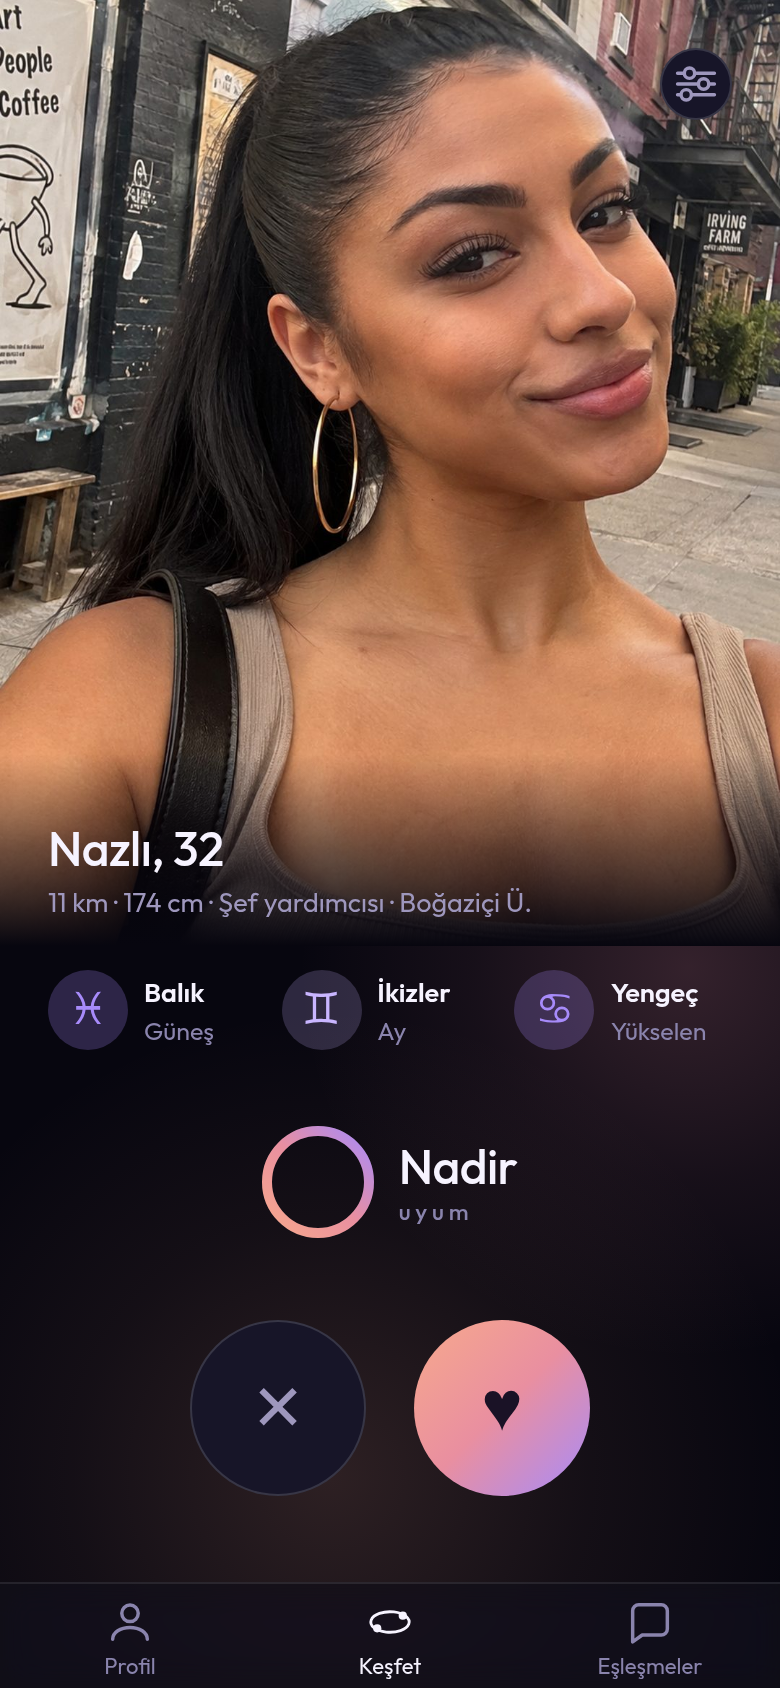
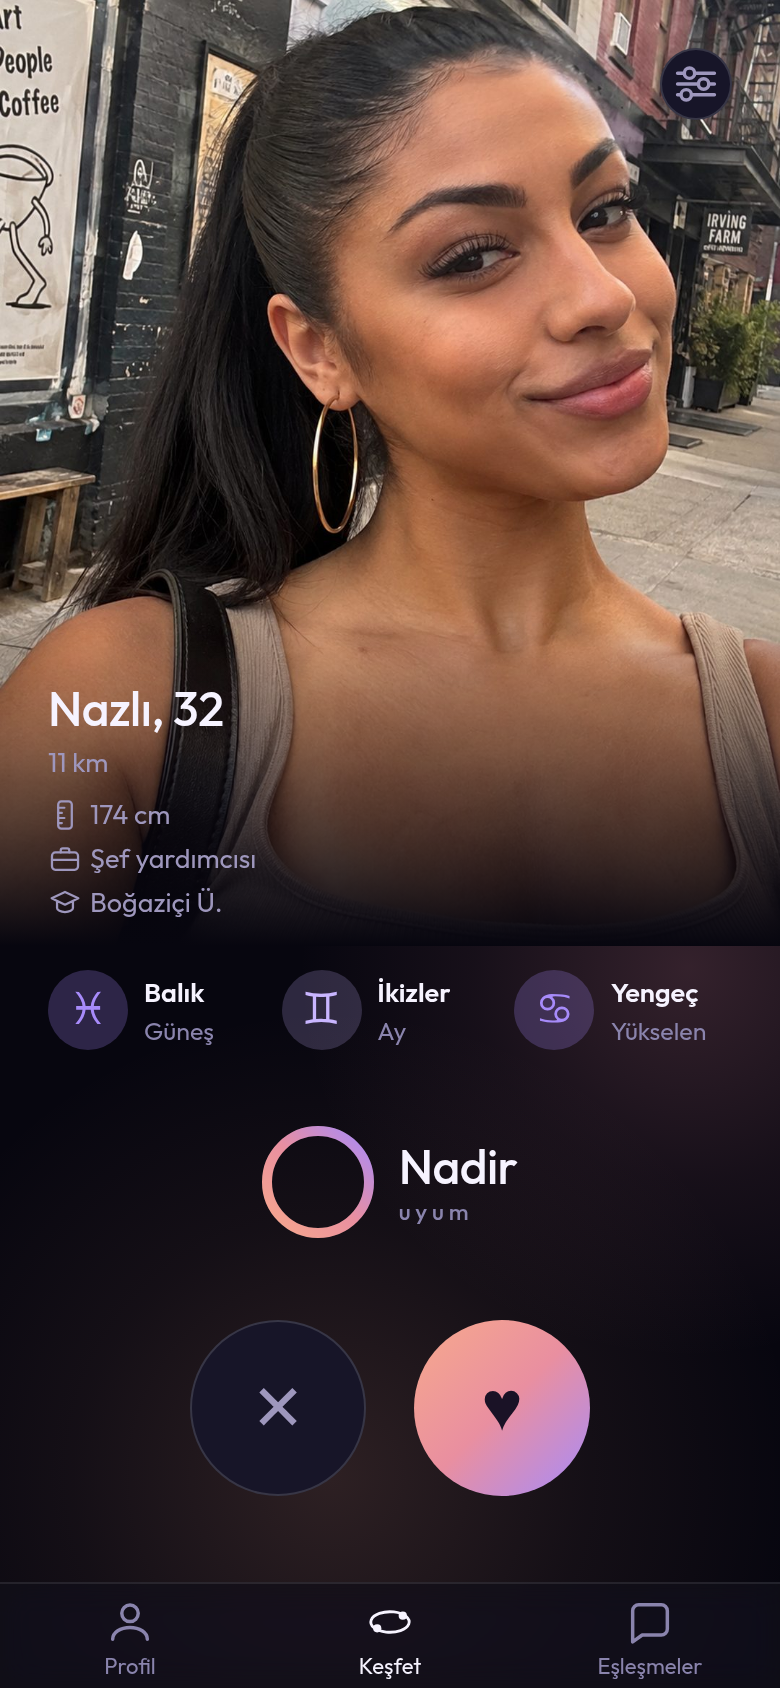
Discover: the card draws the same fact rows as the profile
Owner, after seeing the glyph rows on his own profile: "kesfette de
alanlar profil goruntusundeki gibi olsun". The card's one-line
"11 km · 184 cm · Şef yardımcısı · Boğaziçi Ü." is now the distance on
its own line with the three glyph rows under it, from the same component
the profile sheet uses.

The rows moved out of `ProfileView` into `components/FactRows.tsx` for
it: two surfaces that are supposed to be the same card cannot each keep
their own copy of the block.

The card's height does not change, which is what made this a one-liner
in the first place — its scrim is painted over the photo rather than laid
out above it, so extra lines climb the picture instead of pushing the
chips and the buttons down. `FactRows` takes the deck's
`maxFontSizeMultiplier` so Dynamic Type cannot climb past the name.

`cardLine` becomes `cardSpoken`: its only caller left is the card
button's `accessibilityLabel`, so it speaks the school's full name
rather than the abbreviation, as the profile rows already do.

Claude-Session: https://claude.ai/code/session_01BAn6Ea89nncBaFsjFLHnoH

Changed region(s): [[0.0, 0.3697, 1.0, 0.5545]]

diff --git a/apps/mobile/components/ProfileView.tsx b/apps/mobile/components/ProfileView.tsx
@@ -11,7 +11,7 @@ import {
   View,
 } from 'react-native';
 import { BigThreeRow } from '@/components/BigThreeRow';
-import { DetailIcon, type DetailIconName } from '@/components/DetailIcon';
+import { FactRows, factRows } from '@/components/FactRows';
 import {
   ChartDetail,
   PROFILE_PRIMARY_COUNT,
@@ -40,7 +40,6 @@ import {
   MAX_INTERESTS,
   heightStop,
   searchInterests,
-  shortSchool,
   stopHeight,
   toggleInterest,
   type ProfileDetails,
@@ -209,98 +208,6 @@ export function ProfileView({
         <ChartDetail reading={reading} chart={chart} own={own} />
       </Popup>
     </>
-  );
-}
-
-/**
- * The facts that sit under the name, each with the glyph that says which
- * fact it is (owner, 2026-09-23: "su sekilde ismin hemen altinda olsun.
- * taglerle degil sembollerle gosterelim"). Unanswered ones are simply
- * absent: with no column to hold open there is nothing for a dash to
- * stand in for, which is the trade he took when he picked this shape over
- * the labelled columns it replaces.
- *
- * The `label` never reaches the screen. It is what a screen reader hears
- * in the glyph's place, because a picture of a mortarboard says nothing
- * to it and "Boğaziçi Ü." alone does not say it is a school. `spoken` is
- * the rest of that label: the value, except for the school, where it is
- * the name as it was typed.
- */
-interface FactRow {
-  readonly key: DetailIconName;
-  readonly label: string;
-  readonly value: string;
-  /**
-   * What a screen reader says in place of `value`. They differ for the
-   * school: `shortSchool` exists because a line has a width and
-   * "Üniversitesi" spends most of it, and speech has no width — "Ü." is
-   * read out as a letter and a period.
-   */
-  readonly spoken: string;
-}
-
-function factRows(details: ProfileDetails): readonly FactRow[] {
-  const height =
-    details.height_cm === null
-      ? null
-      : t.profile.heightValue(details.height_cm);
-  const rows: readonly {
-    key: DetailIconName;
-    label: string;
-    value: string | null;
-    spoken: string | null;
-  }[] = [
-    {
-      key: 'height' as const,
-      label: t.profile.height,
-      value: height,
-      spoken: height,
-    },
-    {
-      key: 'occupation' as const,
-      label: t.profile.occupation,
-      value: details.occupation,
-      spoken: details.occupation,
-    },
-    {
-      key: 'university' as const,
-      label: t.profile.universityColumn,
-      // Short here as on the deck (owner, 2026-09-23: "profilde de
-      // kisaltalim"): "Üniversitesi" is most of what a school name spends
-      // a line on while saying nothing about which school it is. The
-      // editor still holds the name as it was typed; this is the drawing,
-      // and `spoken` is the one reader the width argument does not apply
-      // to.
-      value:
-        details.university === null ? null : shortSchool(details.university),
-      spoken: details.university,
-    },
-  ];
-  return rows.filter((row): row is FactRow => row.value !== null);
-}
-
-/** The rows themselves, for a host that has somewhere to put them. */
-function FactRows({ details }: { details: ProfileDetails }) {
-  const rows = factRows(details);
-  if (rows.length === 0) return null;
-  return (
-    <View style={styles.factRows} testID="profile-facts">
-      {rows.map((row) => (
-        <View key={row.key} style={styles.factRow} testID={`fact-${row.key}`}>
-          <DetailIcon name={row.key} />
-          {/* Never onto a second line (owner, 2026-09-23: "meslek ve okul
-              asla alt satira tasmasin"). A row has the whole width now, so
-              only a very long occupation reaches the end of one. */}
-          <Text
-            style={styles.factRowText}
-            numberOfLines={1}
-            accessibilityLabel={`${row.label}: ${row.spoken}`}
-          >
-            {row.value}
-          </Text>
-        </View>
-      ))}
-    </View>
   );
 }
 
@@ -891,15 +798,6 @@ const styles = StyleSheet.create({
   addText: { ...type.caption, color: color.textMuted, textAlign: 'center' },
   dim: { opacity: 0.6 },
   hint: { ...type.caption, color: color.textFaint },
-  // The answered facts under the name, one per line, each behind its
-  // glyph (owner, 2026-09-23: "ismin hemen altinda olsun. taglerle degil
-  // sembollerle gosterelim"). A small gap above the first: they belong to
-  // the name, not to the picture behind them.
-  factRows: { gap: 2, marginTop: space.xs },
-  factRow: { flexDirection: 'row', alignItems: 'center', gap: space.xs },
-  // `flexShrink` so the text, not the row, is what runs out of width; the
-  // glyph keeps its size and the name above keeps its place.
-  factRowText: { ...type.bodySmall, color: color.textMuted, flexShrink: 1 },
   factLabel: { ...type.label, color: color.textFaint },
   factValue: { ...type.body, color: color.text },
   tags: { flexDirection: 'row', flexWrap: 'wrap', gap: space.sm },

diff --git a/apps/mobile/components/FactRows.tsx b/apps/mobile/components/FactRows.tsx
@@ -1,0 +1,124 @@
+import { StyleSheet, Text, View } from 'react-native';
+import { DetailIcon, type DetailIconName } from '@/components/DetailIcon';
+import { shortSchool, type ProfileDetails } from '@/lib/profile-details';
+import { t } from '@/lib/strings';
+import { color, space, type } from '@/theme/tokens';
+
+/**
+ * The facts that sit under a name, each with the glyph that says which
+ * fact it is (owner, 2026-09-23: "su sekilde ismin hemen altinda olsun.
+ * taglerle degil sembollerle gosterelim"). Unanswered ones are simply
+ * absent: with no column to hold open there is nothing for a dash to
+ * stand in for, which is the trade he took when he picked this shape over
+ * the labelled columns it replaced.
+ *
+ * Drawn on the profile sheet and on the deck's card alike (owner,
+ * 2026-09-23: "kesfette de alanlar profil goruntusundeki gibi olsun"),
+ * which is why this is its own file rather than a piece of `ProfileView`:
+ * the two surfaces are supposed to be the same card, and a copy of this
+ * block in each is two things to keep agreeing.
+ *
+ * The `label` never reaches the screen. It is what a screen reader hears
+ * in the glyph's place, because a picture of a mortarboard says nothing
+ * to it and "Boğaziçi Ü." alone does not say it is a school.
+ */
+interface FactRow {
+  readonly key: DetailIconName;
+  readonly label: string;
+  readonly value: string;
+  /**
+   * What a screen reader says in place of `value`. They differ for the
+   * school: `shortSchool` exists because a line has a width and
+   * "Üniversitesi" spends most of it, and speech has no width — "Ü." is
+   * read out as a letter and a period.
+   */
+  readonly spoken: string;
+}
+
+export function factRows(details: ProfileDetails): readonly FactRow[] {
+  const height =
+    details.height_cm === null
+      ? null
+      : t.profile.heightValue(details.height_cm);
+  const rows: readonly {
+    key: DetailIconName;
+    label: string;
+    value: string | null;
+    spoken: string | null;
+  }[] = [
+    {
+      key: 'height' as const,
+      label: t.profile.height,
+      value: height,
+      spoken: height,
+    },
+    {
+      key: 'occupation' as const,
+      label: t.profile.occupation,
+      value: details.occupation,
+      spoken: details.occupation,
+    },
+    {
+      key: 'university' as const,
+      label: t.profile.universityColumn,
+      // Short wherever it is drawn (owner, 2026-09-23: "profilde de
+      // kisaltalim"): "Üniversitesi" is most of what a school name spends
+      // a line on while saying nothing about which school it is. The
+      // editor still holds the name as it was typed; this is the drawing,
+      // and `spoken` is the one reader the width argument does not apply
+      // to.
+      value:
+        details.university === null ? null : shortSchool(details.university),
+      spoken: details.university,
+    },
+  ];
+  return rows.filter((row): row is FactRow => row.value !== null);
+}
+
+export function FactRows({
+  details,
+  maxFontSizeMultiplier,
+}: {
+  details: ProfileDetails;
+  /**
+   * The deck's ceiling on Dynamic Type. That card may not grow — it has
+   * to fit one screen with nothing to scroll into — and these rows are
+   * inside its photo, so text that grew without limit would climb over
+   * the name. The sheets, which scroll, pass nothing and serve every
+   * size.
+   */
+  maxFontSizeMultiplier?: number | undefined;
+}) {
+  const rows = factRows(details);
+  if (rows.length === 0) return null;
+  return (
+    <View style={styles.rows} testID="profile-facts">
+      {rows.map((row) => (
+        <View key={row.key} style={styles.row} testID={`fact-${row.key}`}>
+          <DetailIcon name={row.key} />
+          {/* Never onto a second line (owner, 2026-09-23: "meslek ve okul
+              asla alt satira tasmasin"). A row has the whole width here,
+              so only a very long occupation reaches the end of one. */}
+          <Text
+            style={styles.text}
+            numberOfLines={1}
+            maxFontSizeMultiplier={maxFontSizeMultiplier}
+            accessibilityLabel={`${row.label}: ${row.spoken}`}
+          >
+            {row.value}
+          </Text>
+        </View>
+      ))}
+    </View>
+  );
+}
+
+const styles = StyleSheet.create({
+  // A small gap above the first row: they belong to the name above them,
+  // not to the picture behind them.
+  rows: { gap: 2, marginTop: space.xs },
+  row: { flexDirection: 'row', alignItems: 'center', gap: space.xs },
+  // `flexShrink` so the text, not the row, is what runs out of width; the
+  // glyph keeps its size and the name above keeps its place.
+  text: { ...type.bodySmall, color: color.textMuted, flexShrink: 1 },
+});

diff --git a/apps/mobile/app/(tabs)/(discover)/discover.tsx b/apps/mobile/app/(tabs)/(discover)/discover.tsx
@@ -27,6 +27,7 @@ import { BigThreeRow } from '@/components/BigThreeRow';
 import { PairReading } from '@/components/PairReading';
 import { BandRing } from '@/components/BandRing';
 import { CosmicGround } from '@/components/CosmicGround';
+import { FactRows } from '@/components/FactRows';
 import { FiltersPanel, filterWritesAnswered } from '@/components/FiltersPanel';
 import { Popup } from '@/components/Popup';
 import { SlidersIcon } from '@/components/SlidersIcon';
@@ -37,7 +38,6 @@ import { usePhotoSources } from '@/lib/photos';
 import { firstSightOf } from '@/lib/matches';
 import { INTO_MATCHES, matchArrivedHref } from '@/lib/routes';
 import { fetchOwnProfile, type OwnProfile } from '@/lib/profile';
-import { shortSchool } from '@/lib/profile-details';
 import { useSafeAreaInsets } from 'react-native-safe-area-context';
 import { RedirectToSignIn, useSession } from '@/lib/session';
 import { t } from '@/lib/strings';
@@ -56,25 +56,22 @@ function distanceLine(km: number): string {
 }
 
 /**
- * The line under the name on the deck's card: the distance, then whatever
- * of the height, the occupation and the university was answered.
+ * The card as VoiceOver hears it, since the name, the distance and the
+ * facts are all drawn on the photo and the button's own label would
+ * otherwise hide them (review, 2026-09-15).
  *
- * On the line that was already there rather than on one of its own: the
- * card has to fit one screen with nothing to scroll into (owner,
- * 2026-09-14). It is one line and it clips, so the order is what a reader
- * wants first — where they are, then who they are. The interests are on
- * the profile sheet a tap away, which is the whole card in full.
+ * One string where the card now draws several lines: speech has no
+ * layout, and a reader wants where they are before who they are. The
+ * school is spoken in full — `shortSchool` buys width on a line, and
+ * "Ü." is heard as a letter and a period. The interests are on the
+ * profile sheet a tap away, which is the whole card in full.
  */
-function cardLine(row: DiscoverRow): string {
+function cardSpoken(row: DiscoverRow): string {
   return [
     distanceLine(row.distance_km),
     row.height_cm === null ? null : t.profile.heightValue(row.height_cm),
     row.occupation,
-    // Shortened here and nowhere else: this line clips, and
-    // "Üniversitesi" is the half of a school name that says nothing about
-    // which one it is, so it stands as "Ü.". The profile sheet a tap away
-    // still gives the name in full.
-    row.university === null ? null : shortSchool(row.university),
+    row.university,
   ]
     .filter((part): part is string => part !== null)
     .join(' · ');
@@ -437,7 +434,7 @@ export default function Discover() {
             accessibilityLabel={t.discover.openPerson(
               current.row.display_name,
               current.row.age,
-              cardLine(current.row),
+              cardSpoken(current.row),
             )}
             testID="open-person"
           >
@@ -465,8 +462,19 @@ export default function Discover() {
                 maxFontSizeMultiplier={MAX_DECK_SCALE}
                 testID="card-line"
               >
-                {cardLine(current.row)}
+                {distanceLine(current.row.distance_km)}
               </Text>
+              {/* The same rows as the profile sheet draws under a name
+                  (owner, 2026-09-23: "kesfette de alanlar profil
+                  goruntusundeki gibi olsun"), from the same component, so
+                  the card and the sheet a tap away cannot drift. The
+                  scrim is painted over the photo rather than laid out
+                  above it, so three lines here cost the card no height —
+                  they sit further up the picture. */}
+              <FactRows
+                details={current.row}
+                maxFontSizeMultiplier={MAX_DECK_SCALE}
+              />
             </LinearGradient>
             {/* The verdict as it forms, for sighted eyes only: the round
                 buttons below are the accessible way to the same thing. */}

diff --git a/docs/NOTES.md b/docs/NOTES.md
@@ -7125,3 +7125,35 @@ repo can see. Checked by driving the web target and photographing it.
 ### Upstream candidates
 
 None this round.
+
+## 2026-09-23 — the deck's card draws the same rows as the profile
+
+Owner, after seeing the glyph rows on his own profile: "kesfette de
+alanlar profil goruntusundeki gibi olsun". So the deck card's one-line
+"11 km · 184 cm · Şef yardımcısı · Boğaziçi Ü." is now the distance on
+its own line with the same three glyph rows under it.
+
+The rows moved out of `ProfileView` into `components/FactRows.tsx` for
+it. Two surfaces that are supposed to be the same card cannot each keep
+their own copy of the block — that is what produced the one-liner and the
+columns drifting apart in the first place.
+
+The card's height is unchanged, which is the constraint that made it a
+one-liner in 2026-09-14 ("the card has to fit one screen with nothing to
+scroll into"): its scrim is painted over the photo rather than laid out
+above it, so extra lines climb the picture instead of pushing the chips
+and the buttons down. `FactRows` takes the deck's `maxFontSizeMultiplier`
+so Dynamic Type cannot climb past the name either.
+
+`cardLine` is `cardSpoken` now: its only caller left is the card button's
+`accessibilityLabel`, so it speaks the school's full name rather than the
+abbreviation, the same rule the profile rows follow.
+
+### Battery gaps
+
+Same as the entries above: which surface draws what is wiring, checked by
+driving the web target and photographing the deck.
+
+### Upstream candidates
+
+None this round.
